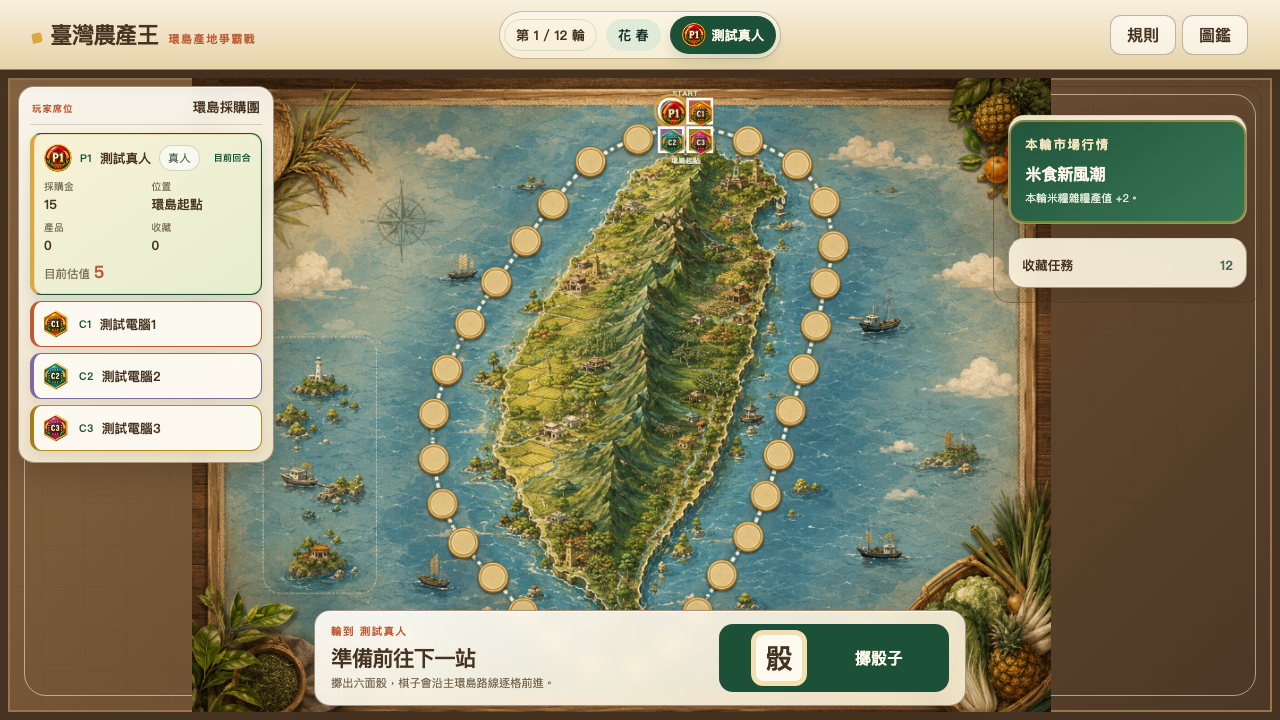
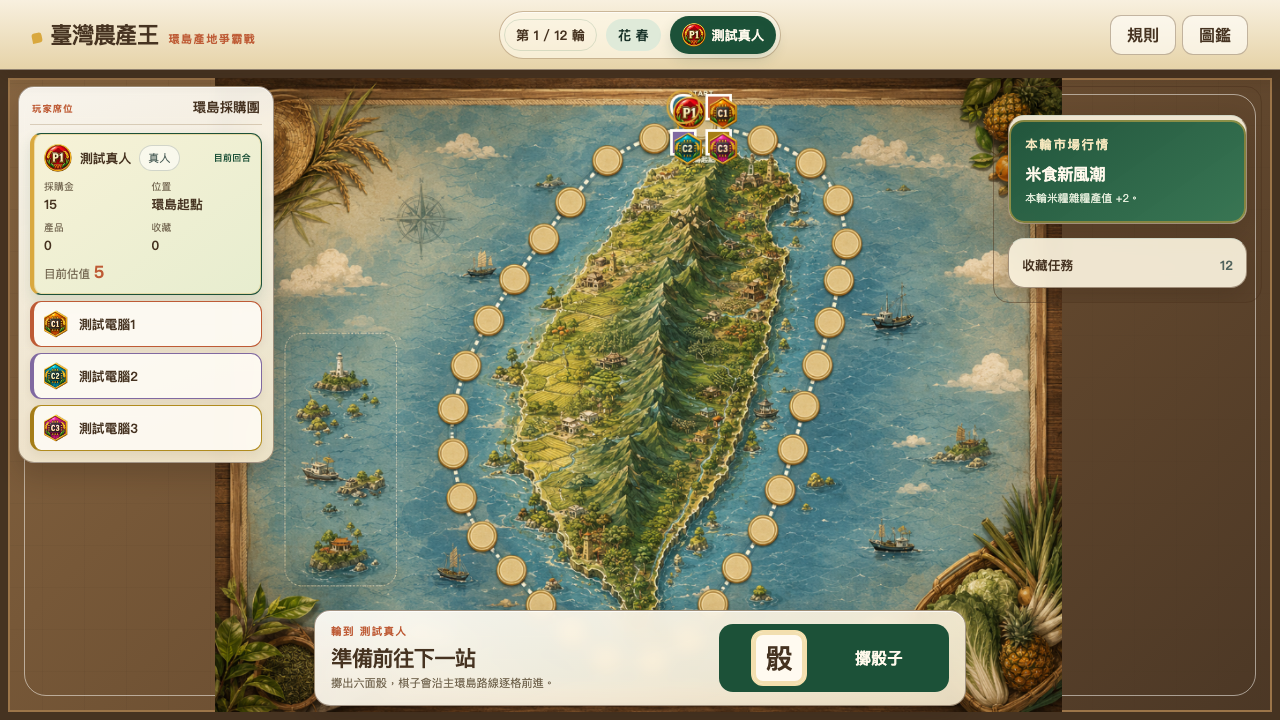
fix: polish player badges and optional product artwork

diff --git a/src/gameApp.ts b/src/gameApp.ts
@@ -244,8 +244,9 @@ function productCard(product: Product, source: PurchaseSource, game: GameState):
   const insufficient = player.funds < price.final;
   const disabled = owned || insufficient || ui.locked;
   const value = getCurrentProductValue(product, game.season, activeMarketCard(game));
-  return `<article class="product-choice" data-product-category="${product.category}">
-    <div class="product-artwork-wrap">${renderProductArtwork(product, 'procurement-artwork')}</div>
+  const artwork = renderProductArtwork(product, 'procurement-artwork');
+  return `<article class="product-choice" data-product-id="${product.id}" data-product-category="${product.category}">
+    ${artwork ? `<div class="product-artwork-wrap">${artwork}</div>` : ''}
     <div class="product-choice-head"><div><span>${getCategoryLabel(product.category)}</span><h3>${escapeHtml(product.name)}</h3><p>${getCountyName(product.countyId)}</p></div><strong>${value}<small>目前產值</small></strong></div>
     <dl><div><dt>採購</dt><dd>${price.final}</dd></div><div><dt>基礎產值</dt><dd>${product.baseValue}</dd></div><div><dt>旺季</dt><dd>${product.peakSeasons.map(getSeasonLabel).join('、')}</dd></div></dl>
     ${source === 'farmers-association' ? `<p class="price-detail">原價 ${price.original} | 農會優惠 -${price.associationDiscount}${price.marketDiscount ? ` | 市場優惠 -${price.marketDiscount}` : ''} | 本次 ${price.final}</p>` : price.marketDiscount ? `<p class="price-detail">原價 ${price.original} | 市場優惠 -${price.marketDiscount} | 本次 ${price.final}</p>` : ''}
@@ -267,14 +268,14 @@ function renderPlayers(game: GameState): string {
       const ownedProducts = getOwnedProducts(player);
       const inventory = ownedProducts.length
         ? `<ul class="player-inventory" aria-label="${identity.fullLabel}已持有產品">${ownedProducts
-            .map(
-              (product) =>
-                `<li>${renderProductArtwork(product, 'inventory-artwork')}<span>${escapeHtml(product.name)}</span></li>`,
-            )
+            .map((product) => {
+              const artwork = renderProductArtwork(product, 'inventory-artwork');
+              return `<li class="${artwork ? 'has-artwork' : 'no-artwork'}">${artwork}<span>${escapeHtml(product.name)}</span></li>`;
+            })
             .join('')}</ul>`
         : '';
       return `<article class="player-status player-${index + 1} ${index === game.currentPlayerIndex ? 'is-current' : ''}" data-testid="player-card-${player.id}" data-controller="${player.controller ?? 'human'}" data-position="${player.position}" data-product-ids="${escapeHtml(player.productIds.join(','))}">
-        <div class="player-status-title">${renderPlayerBadge(identity, 'hud-player-badge', 'hud')}<span class="player-identity-label">${identity.badgeLabel}</span><h3>${escapeHtml(player.name)}</h3><span class="controller-label">${controllerLabel}</span>${index === game.currentPlayerIndex ? '<em>目前回合</em>' : ''}</div>
+        <div class="player-status-title">${renderPlayerBadge(identity, 'hud-player-badge', 'hud')}<h3>${escapeHtml(player.name)}</h3><span class="controller-label">${controllerLabel}</span>${index === game.currentPlayerIndex ? '<em>目前回合</em>' : ''}</div>
         <dl><div><dt>採購金</dt><dd data-testid="funds-${player.id}">${player.funds}</dd></div><div><dt>位置</dt><dd>${tile.shortName}</dd></div><div><dt>產品</dt><dd data-testid="product-count-${player.id}">${player.productIds.length}</dd></div><div><dt>收藏</dt><dd>${completed}</dd></div></dl>
         ${inventory}
         <p>目前估值 <strong data-testid="score-${player.id}">${score.total}</strong></p>
@@ -331,7 +332,14 @@ function renderActionPanel(game: GameState): string {
   }
   if (game.phase === 'awaiting-sale') {
     const products = getOwnedProducts(player);
-    return `<div class="action-wide"><div class="action-copy"><span>農產市場</span><h2>出售 0 或 1 項產品</h2><p>${products.length ? '出售價值已套用本季與市場卡。' : '目前沒有可出售的農產品。'}</p></div><div class="product-choice-grid">${products.map((product) => `<article class="product-choice"><div class="product-artwork-wrap">${renderProductArtwork(product, 'sale-artwork')}</div><div class="product-choice-head"><div><span>${getCountyName(product.countyId)}</span><h3>${escapeHtml(product.name)}</h3></div><strong>${getCurrentProductValue(product, game.season, activeMarketCard(game))}<small>出售價值</small></strong></div><button type="button" data-action="sell" data-product-id="${product.id}" ${ui.locked ? 'disabled' : ''}>出售</button></article>`).join('')}</div><button class="quiet-action" type="button" data-action="skip-sale" ${ui.locked ? 'disabled' : ''}>略過出售</button></div>`;
+    return `<div class="action-wide"><div class="action-copy"><span>農產市場</span><h2>出售 0 或 1 項產品</h2><p>${products.length ? '出售價值已套用本季與市場卡。' : '目前沒有可出售的農產品。'}</p></div><div class="product-choice-grid">${products
+      .map((product) => {
+        const artwork = renderProductArtwork(product, 'sale-artwork');
+        return `<article class="product-choice" data-product-id="${product.id}">${artwork ? `<div class="product-artwork-wrap">${artwork}</div>` : ''}<div class="product-choice-head"><div><span>${getCountyName(product.countyId)}</span><h3>${escapeHtml(product.name)}</h3></div><strong>${getCurrentProductValue(product, game.season, activeMarketCard(game))}<small>出售價值</small></strong></div><button type="button" data-action="sell" data-product-id="${product.id}" ${ui.locked ? 'disabled' : ''}>出售</button></article>`;
+      })
+      .join(
+        '',
+      )}</div><button class="quiet-action" type="button" data-action="skip-sale" ${ui.locked ? 'disabled' : ''}>略過出售</button></div>`;
   }
   if (game.phase === 'awaiting-transport' && pending?.kind === 'transport') {
     return `<div class="action-wide"><div class="action-copy"><span>離島特別行程</span><h2>選擇一個合法目的地</h2><p>離島採購完成後，主棋子仍停留在交通格。</p></div><div class="destination-grid">${pending.destinationIds
@@ -706,10 +714,10 @@ function renderAtlas(): void {
       (county === 'all' || product.countyId === county),
   );
   grid.innerHTML = products
-    .map(
-      (product) =>
-        `<article class="atlas-product-card" data-product-id="${product.id}"><div class="atlas-artwork-wrap">${renderProductArtwork(product, 'atlas-artwork')}</div><div><span>${getCategoryLabel(product.category)}</span><h3>${escapeHtml(product.name)}</h3><p>${getCountyName(product.countyId)}</p><small>旺季：${product.peakSeasons.map(getSeasonLabel).join('、')}</small></div></article>`,
-    )
+    .map((product) => {
+      const artwork = renderProductArtwork(product, 'atlas-artwork');
+      return `<article class="atlas-product-card ${artwork ? 'has-artwork' : 'no-artwork'}" data-product-id="${product.id}">${artwork ? `<div class="atlas-artwork-wrap">${artwork}</div>` : ''}<div><span>${getCategoryLabel(product.category)}</span><h3>${escapeHtml(product.name)}</h3><p>${getCountyName(product.countyId)}</p><small>旺季：${product.peakSeasons.map(getSeasonLabel).join('、')}</small></div></article>`;
+    })
     .join('');
 }
 

diff --git a/src/main.ts b/src/main.ts
@@ -37,13 +37,23 @@ app.innerHTML = `
     </section>
     <section class="facts" aria-label="遊戲內容規模"><article><strong>${BOARD_TILES.length}</strong><span>格臺灣棋盤</span></article><article><strong>${PRODUCTS.length}</strong><span>項農漁產品</span></article><article><strong>${MARKET_CARDS.length}</strong><span>張市場卡</span></article><article><strong>${COLLECTION_GOALS.length}</strong><span>項收藏任務</span></article></section>
     <section class="how-to-play" aria-labelledby="play-title"><h2 id="play-title">一趟看得懂，也玩得完的環島</h2><div class="play-sequence"><article><strong>擲骰前進</strong><p>沿臺灣本島 0 至 26 格逐站移動。</p></article><article><strong>採購與出售</strong><p>在產地、農漁會與市場做一次選擇。</p></article><article><strong>完成收藏</strong><p>公開追蹤 12 項任務，12 輪後結算。</p></article></div></section>
-    <section class="produce-stage" aria-labelledby="produce-title"><div><h2 id="produce-title">從產地開始認識臺灣</h2><p>真實產地脈絡與遊戲化成本、產值分開保存。每張產品卡清楚標示縣市、類別與旺季。</p><button type="button" data-open="atlas-dialog">打開 48 項圖鑑</button></div><div class="produce-stack">${featured.map((product, index) => `<article style="--card-index:${index}"><div class="homepage-product-art">${renderProductArtwork(product, 'homepage-product-image')}</div><span>${PRODUCT_CATEGORY_NAMES[product.category]}</span><h3>${product.name}</h3><p>${countyName(product.countyId)}</p><small>旺季 ${product.peakSeasons.length} 季</small></article>`).join('')}</div></section>
+    <section class="produce-stage" aria-labelledby="produce-title"><div><h2 id="produce-title">從產地開始認識臺灣</h2><p>真實產地脈絡與遊戲化成本、產值分開保存。每張產品卡清楚標示縣市、類別與旺季。</p><button type="button" data-open="atlas-dialog">打開 48 項圖鑑</button></div><div class="produce-stack">${featured
+      .map((product, index) => {
+        const artwork = renderProductArtwork(product, 'homepage-product-image');
+        return `<article class="${artwork ? 'has-artwork' : 'no-artwork'}" style="--card-index:${index}">${artwork ? `<div class="homepage-product-art">${artwork}</div>` : ''}<span>${PRODUCT_CATEGORY_NAMES[product.category]}</span><h3>${product.name}</h3><p>${countyName(product.countyId)}</p><small>旺季 ${product.peakSeasons.length} 季</small></article>`;
+      })
+      .join('')}</div></section>
     <section class="family-note"><div><h2>1 至 4 人，共用一臺裝置</h2><p>沒有隱藏資訊。輪到誰，畫面就會清楚交棒；手機與桌機都能完成整場遊戲。</p></div><a class="primary-link" href="./game.html">開始環島</a></section>
     <section class="developer-note"><h2>開發資訊</h2><p>核心規則由純 TypeScript 引擎負責，正式介面只呈現狀態並送出玩家操作。</p><a href="./engine-test.html">核心引擎測試</a></section>
   </main>
   <footer><p>採購金、採購成本與產值皆為遊戲化數值，不代表實際市場價格或官方農業產值。</p></footer>
   <dialog id="rules-dialog" aria-labelledby="rules-title"><div class="dialog-head"><h2 id="rules-title">遊戲規則</h2><button type="button" data-close aria-label="關閉規則">關閉</button></div><div class="rules-grid"><article><strong>目標</strong><p>12 輪後，以產品價值、收藏加成與資金換分合計最高者獲勝。</p></article><article><strong>四季</strong><p>每 3 輪更換季節，旺季產品價值提高。</p></article><article><strong>採購</strong><p>產地、農會與漁會每次可買 0 或 1 項。</p></article><article><strong>市場</strong><p>市場每次可賣 0 或 1 項，市場卡會改變行情。</p></article><article><strong>收藏</strong><p>12 項任務公開顯示，完成即可取得加成。</p></article><article><strong>離島</strong><p>交通格可選擇合法離島，完成一次特別採購。</p></article></div></dialog>
-  <dialog id="atlas-dialog" aria-labelledby="atlas-title"><div class="dialog-head"><h2 id="atlas-title">農產圖鑑</h2><button type="button" data-close aria-label="關閉圖鑑">關閉</button></div><div class="atlas-grid">${PRODUCTS.map((product) => `<article class="atlas-product-card"><div class="atlas-artwork-wrap">${renderProductArtwork(product, 'atlas-artwork')}</div><div><span>${PRODUCT_CATEGORY_NAMES[product.category]}</span><h3>${product.name}</h3><p>${countyName(product.countyId)}</p><small>旺季：${product.peakSeasons.join('、')}</small></div></article>`).join('')}</div></dialog>
+  <dialog id="atlas-dialog" aria-labelledby="atlas-title"><div class="dialog-head"><h2 id="atlas-title">農產圖鑑</h2><button type="button" data-close aria-label="關閉圖鑑">關閉</button></div><div class="atlas-grid">${PRODUCTS.map(
+    (product) => {
+      const artwork = renderProductArtwork(product, 'atlas-artwork');
+      return `<article class="atlas-product-card ${artwork ? 'has-artwork' : 'no-artwork'}" data-product-id="${product.id}">${artwork ? `<div class="atlas-artwork-wrap">${artwork}</div>` : ''}<div><span>${PRODUCT_CATEGORY_NAMES[product.category]}</span><h3>${product.name}</h3><p>${countyName(product.countyId)}</p><small>旺季：${product.peakSeasons.join('、')}</small></div></article>`;
+    },
+  ).join('')}</div></dialog>
 `;
 
 app.addEventListener('click', (event) => {

diff --git a/e2e/phase5b1.spec.ts b/e2e/phase5b1.spec.ts
@@ -57,8 +57,22 @@ test('Phase 5B-1 desktop token identity uses P/C supplied badges consistently', 
     'data-identity-label',
     'C3',
   );
-  await expect(page.getByTestId('player-card-player-1')).toContainText('P1');
-  await expect(page.getByTestId('player-card-player-2')).toContainText('C1');
+  await expect(page.locator('.player-identity-label')).toHaveCount(0);
+  await expect(
+    page.getByTestId('player-card-player-1').locator('[data-identity-label="P1"]'),
+  ).toHaveCount(1);
+  await expect(
+    page.getByTestId('player-card-player-2').locator('[data-identity-label="C1"]'),
+  ).toHaveCount(1);
+  for (const playerId of ['player-1', 'player-2', 'player-3', 'player-4']) {
+    const badge = page.getByTestId(`player-token-${playerId}`).locator('.player-badge-board');
+    const size = await badge.evaluate((element) => ({
+      width: Number.parseFloat(getComputedStyle(element).width),
+      height: Number.parseFloat(getComputedStyle(element).height),
+    }));
+    expect(size.width).toBeGreaterThanOrEqual(36);
+    expect(size.height).toBeGreaterThanOrEqual(36);
+  }
   await page.screenshot({ path: 'qa/phase5b1/desktop-1280-token-identity.png' });
   await expectHealthy(page, diagnostics);
 });
@@ -68,12 +82,25 @@ test('Phase 5B-1 procurement cards show supplied product samples', async ({ page
   const diagnostics = await openScenario(page, 'phase5b1-procurement');
   await expect(page.locator('.product-choice')).toHaveCount(3);
   await expect(page.locator('.product-choice [data-product-artwork]')).toHaveCount(2);
+  await expect(
+    page.locator('[data-product-id="changhua-grape"] [data-product-artwork]'),
+  ).toHaveCount(0);
+  await expect(
+    page.locator('[data-product-id="changhua-grape"] .product-artwork-wrap'),
+  ).toHaveCount(0);
+  await expect(
+    page.locator('[data-product-id="changhua-rice"] [data-product-artwork]'),
+  ).toHaveCount(1);
+  await expect(
+    page.locator('[data-product-id="changhua-eggs"] [data-product-artwork]'),
+  ).toHaveCount(1);
+  await expect(page.getByText('未提供圖片')).toHaveCount(0);
   await expect(page.getByText('彰化平原', { exact: true })).toBeVisible();
   await page.screenshot({ path: 'qa/phase5b1/desktop-1280-procurement-cards.png' });
   await expectHealthy(page, diagnostics);
 });
 
-test('Phase 5B-1 inventory and atlas expose artwork with text fallback elsewhere', async ({
+test('Phase 5B-1 inventory and atlas show artwork only where supplied', async ({
   page,
 }, testInfo) => {
   test.skip(testInfo.project.name !== 'desktop-chromium', 'desktop QA screenshot');
@@ -83,6 +110,9 @@ test('Phase 5B-1 inventory and atlas expose artwork with text fallback elsewhere
   const atlas = page.getByRole('dialog', { name: '農產圖鑑' });
   await expect(atlas).toBeVisible();
   await expect(atlas.locator('[data-product-artwork]')).toHaveCount(6);
+  await expect(atlas.locator('.atlas-artwork-wrap')).toHaveCount(6);
+  await expect(atlas.locator('.atlas-product-card.no-artwork')).toHaveCount(42);
+  await expect(atlas.getByText('未提供圖片')).toHaveCount(0);
   await page.screenshot({ path: 'qa/phase5b1/desktop-1280-inventory-and-atlas.png' });
   await expectHealthy(page, diagnostics);
 });
@@ -102,6 +132,17 @@ test('Phase 5B-1 mobile view keeps token identity and product artwork legible', 
     'data-identity-label',
     'C1',
   );
+  await expect(page.locator('.player-identity-label')).toHaveCount(0);
+  for (const playerId of ['player-1', 'player-2', 'player-3', 'player-4']) {
+    const badge = page.getByTestId(`player-token-${playerId}`).locator('.player-badge-board');
+    const size = await badge.evaluate((element) => ({
+      width: Number.parseFloat(getComputedStyle(element).width),
+      height: Number.parseFloat(getComputedStyle(element).height),
+    }));
+    expect(size.width).toBeGreaterThanOrEqual(30);
+    expect(size.height).toBeGreaterThanOrEqual(30);
+  }
+  await expect(page.getByText('未提供圖片')).toHaveCount(0);
   await page.screenshot({ path: 'qa/phase5b1/mobile-390-token-and-products.png' });
   await expectHealthy(page, diagnostics);
 });

diff --git a/src/styles/play.css b/src/styles/play.css
@@ -3646,8 +3646,8 @@ body {
 }
 
 .player-badge-board {
-  width: 30px;
-  height: 30px;
+  width: 38px;
+  height: 38px;
 }
 
 .player-badge-hud {
@@ -3683,13 +3683,6 @@ body {
   border-radius: 0;
 }
 
-.player-identity-label {
-  color: var(--field-dark);
-  font-size: 0.66rem;
-  font-weight: 950;
-  letter-spacing: 0.03em;
-}
-
 .turn-player-badge {
   width: 24px;
   height: 24px;
@@ -3703,7 +3696,7 @@ body {
 }
 
 .product-artwork-wrap {
-  height: 82px;
+  height: 104px;
   display: grid;
   place-items: center;
   overflow: hidden;
@@ -3715,14 +3708,6 @@ body {
   width: 100%;
   height: 100%;
   object-fit: contain;
-}
-
-.product-artwork-fallback {
-  display: grid;
-  place-items: center;
-  color: var(--muted);
-  font-size: 0.62rem;
-  font-weight: 800;
 }
 
 .product-choice .product-artwork-wrap {
@@ -3783,7 +3768,7 @@ body {
   vertical-align: middle;
 }
 
-.atlas-product-card {
+.atlas-product-card.has-artwork {
   display: grid;
   grid-template-columns: 92px 1fr;
   align-items: center;
@@ -3813,8 +3798,8 @@ body {
   }
 
   .player-badge-board {
-    width: 26px;
-    height: 26px;
+    width: 32px;
+    height: 32px;
   }
 
   .player-badge-hud {
@@ -3822,15 +3807,11 @@ body {
     height: 24px;
   }
 
-  .player-identity-label {
-    font-size: 0.58rem;
-  }
-
   .product-artwork-wrap {
-    height: 68px;
+    height: 84px;
   }
 
-  .atlas-product-card {
+  .atlas-product-card.has-artwork {
     grid-template-columns: 72px 1fr;
     gap: 8px;
   }

diff --git a/tests/productArtwork.test.ts b/tests/productArtwork.test.ts
@@ -1,6 +1,6 @@
 import { describe, expect, it } from 'vitest';
 import { PRODUCTS } from '../src/data/products';
-import { getProductArtwork, PRODUCT_ARTWORK } from '../src/ui/productArtwork';
+import { getProductArtwork, PRODUCT_ARTWORK, renderProductArtwork } from '../src/ui/productArtwork';
 
 describe('product artwork presentation mapping', () => {
   it('maps the six supplied samples to exact product IDs', () => {
@@ -20,5 +20,11 @@ describe('product artwork presentation mapping', () => {
 
   it('returns no formal artwork for products outside the six samples', () => {
     expect(getProductArtwork('taoyuan-persimmon')).toBeNull();
+  });
+
+  it('renders no placeholder markup when a product has no supplied artwork', () => {
+    const product = PRODUCTS.find(({ id }) => id === 'changhua-grape')!;
+
+    expect(renderProductArtwork(product)).toBe('');
   });
 });

diff --git a/src/ui/productArtwork.ts b/src/ui/productArtwork.ts
@@ -52,8 +52,6 @@ export function getProductArtwork(productId: string): ProductArtwork | null {
 
 export function renderProductArtwork(product: Product, className = ''): string {
   const artwork = getProductArtwork(product.id);
-  if (!artwork) {
-    return `<span class="product-artwork product-artwork-fallback ${className}" role="img" aria-label="${product.name}產品圖尚未提供">未提供圖片</span>`;
-  }
+  if (!artwork) return '';
   return `<img class="product-artwork ${className}" src="${artwork.assetUrl}" alt="${artwork.alt}" data-product-artwork="${product.id}" loading="lazy" decoding="async" draggable="false" />`;
 }

diff --git a/src/ui/renderBoard.ts b/src/ui/renderBoard.ts
@@ -81,10 +81,10 @@ export function createBoardView(host: HTMLElement, initialState: GameState): Boa
                   [13, 11],
                 ]
               : [
-                  [-16, -16],
-                  [16, -16],
-                  [-16, 16],
-                  [16, 16],
+                  [-20, -20],
+                  [20, -20],
+                  [-20, 20],
+                  [20, 20],
                 ];
       const [offsetX, offsetY] = offsets[peerIndex] ?? [0, 0];
       token.style.setProperty('--token-x', `${coordinate[0]}%`);

diff --git a/src/styles/global.css b/src/styles/global.css
@@ -1264,7 +1264,7 @@ body {
   object-fit: contain;
 }
 
-.atlas-product-card {
+.atlas-product-card.has-artwork {
   display: grid;
   grid-template-columns: 104px 1fr;
   align-items: center;
@@ -1292,7 +1292,7 @@ body {
     height: 76px;
   }
 
-  .atlas-product-card {
+  .atlas-product-card.has-artwork {
     grid-template-columns: 76px 1fr;
     gap: 9px;
   }
